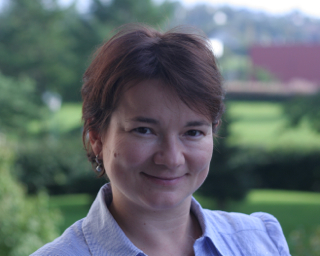
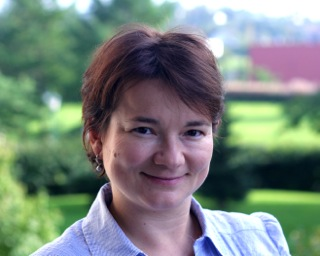
New photo. Fix links

diff --git a/tanya/en/about/index.html b/tanya/en/about/index.html
@@ -118,19 +118,19 @@
 
   <article class="post-content">
     <p>I graduated from Saint Petersburg State University, Russia. My qualification
-is “Teacher in Russian language and literature. Teacher in Russian as a
-foreign language”. I have also a PhD degree in sociolinguistics.</p>
+is “Russian language and literature teacher. Russian as a foreign language
+instructor”. I have also a PhD degree in sociolinguistics.</p>
 
 <p>From 2000 to 2010 I worked as a researcher and Russian language instructor in
-St. Petersburg (Russia). I have great experience in teaching students with
-different level in Russian.</p>
+St. Petersburg (Russia). I have great experience in teaching students at
+different levels in Russian.</p>
 
 <p>Since 2013 I’ve worked as a Russian language instructor for children and
-adults in association “Glad i læring” in Trondheim. In addition to that i work
-as a private teacher. Her you can find full version of my CV.</p>
+adults in association <a href="https://www.facebook.com/Russiskskole">“Glad i læring”</a>
+in Trondheim. In addition to that i work as a private teacher.</p>
 
-<p><a href="/tanya/cv/Tatiana_Gavrilova_CV_side_en.pdf">Here</a> you can find
-full version of my CV in English.</p>
+<p><a href="/tanya/cv/Tatiana_Gavrilova_CV_side_en.pdf">Here</a> you can find my
+CV in English.</p>
 
 
   </article>
